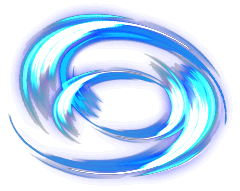
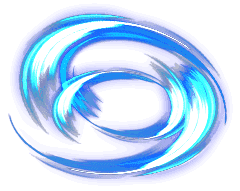
Compressed all the assets, adjust gaming status

diff --git a/src/PhaserGame/scenes/PlayScene.js b/src/PhaserGame/scenes/PlayScene.js
@@ -166,10 +166,10 @@ export class PlayScene extends Phaser.Scene{
       //  this.player = new Bomber(this,playerStartingPos.x,playerStartingPos.y, "p1", "p1_01.png",0,500,150);
         switch(this.spritekey){
             case "bomber":
-            this.player = new Bomber(this,playerStartingPos.x,playerStartingPos.y, "p1", "p1_01.png",0,this.startingPlayerHealth,150,'123');
+            this.player = new Bomber(this,playerStartingPos.x,playerStartingPos.y, "p1", "p1_0.png",0,this.startingPlayerHealth,150,'123');
             break;
             case "rider":
-            this.player = new Rider(this,playerStartingPos.x,playerStartingPos.y, "rider", "rider_01.png",1,this.startingPlayerHealth,200,'123').setScale(0.8);
+            this.player = new Rider(this,playerStartingPos.x,playerStartingPos.y, "rider", "rider_0.png",1,this.startingPlayerHealth,200,'123').setScale(0.8);
             break;
         }
         this.enemyPlayers.add(this.player);
@@ -229,38 +229,39 @@ export class PlayScene extends Phaser.Scene{
             this.hud = new HUD(this, this.player, this.playerUid, this.mode)
             this.manabar=this.hud.manabar;
             this.hpbar=this.hud.hpbar;
-            this.sword_in_the_stone=new Units(this,645,645,645,595,"sword_in_the_stone",1,2000,1,200,100,this.player.uid);
+            this.sword_in_the_stone=new Units(this,645,645,645,595,"sword_in_the_stone",1,2000,1,200,100,this.player.uid,this.player.uid,"sword_in_the_stone.svg");
             this.sword_in_the_stone.setScale(0.5);
 
-            this.building=new Units(this,1200,1200,1150,1099,"building1",1,200,4,180,200).setScale(0.15);
-            this.university=new Units(this,1200,0,1150,-1,"university",1,200).setScale(1.5);
-            this.pyramid=new Units(this,0,0,100,-1,"pyramid",1,200,4,180,200).setScale(1.5);
-            this.magicstone=new Units(this,0,1200,100,1089,"magicstone",1,200,4,180,200).setScale(1.5);
+            this.building=new Units(this,1200,1200,1150,1099,"building1",1,200,4,180,200,'123','123','sprite0').setScale(0.15);
+            this.university=new Units(this,1200,0,1150,-1,"university",1,200,4,180,200,'234','234',"university.png").setScale(1.5);
+            this.pyramid=new Units(this,0,0,100,-1,"pyramid",1,200,4,180,200,'345','345','pyramid.png').setScale(1.5);
+            this.magicstone=new Units(this,0,1200,100,1089,"magicstone",1,200,4,180,200,'456','456','magicstones.png').setScale(1.5);
+
 
             //The enemies are in four different towers.
-            this.wolf0=new Enemy(this, 1100,1200, "wolf", "Wolf_01.png",this.player,0,200,0.1,5,50,65,200);
-            this.wolf1=new Enemy(this, 1050,1200, "wolf", "Wolf_01.png",this.player,0,200,0.1,5,50,65,200);
-            this.wolf2=new Enemy(this, 1000,1200, "wolf", "Wolf_01.png",this.player,0,200,0.1,5,50,65,200);
-            this.wolf3=new Enemy(this, 950,1200, "wolf", "Wolf_01.png",this.player,0,200,0.1,5,50,65,200);
+            this.wolf0=new Enemy(this, 1100,1200, "wolf", "wolf_01.png",this.player,0,200,0.1,5,50,65,200);
+            this.wolf1=new Enemy(this, 1050,1200, "wolf", "wolf_01.png",this.player,0,200,0.1,5,50,65,200);
+            this.wolf2=new Enemy(this, 1000,1200, "wolf", "wolf_01.png",this.player,0,200,0.1,5,50,65,200);
+            this.wolf3=new Enemy(this, 950,1200, "wolf", "wolf_01.png",this.player,0,200,0.1,5,50,65,200);
             //this.wolf4=new Enemy(this, 900,1200, "wolf", "Wolf_01.png",this.player,0,200,0.1,5,50,65,200);
 
             
-            this.ninjabot0=new Enemy(this, 1000,200, "ninjabot", "ninjabot_1.png",this.player,1,100,0.8,5,180,55,700);
-            this.ninjabot1=new Enemy(this, 950,200, "ninjabot", "ninjabot_1.png",this.player,1,100,0.8,5,180,55,700);
-            this.ninjabot2=new Enemy(this, 900,200, "ninjabot", "ninjabot_1.png",this.player,1,100,0.8,5,180,55,700);
-            this.ninjabot3=new Enemy(this, 850,200, "ninjabot", "ninjabot_1.png",this.player,1,100,0.8,5,180,55,700);
+            this.ninjabot0=new Enemy(this, 1000,200, "ninjabot", "ninjabot_01.png",this.player,1,100,0.8,5,180,55,700);
+            this.ninjabot1=new Enemy(this, 950,200, "ninjabot", "ninjabot_01.png",this.player,1,100,0.8,5,180,55,700);
+            this.ninjabot2=new Enemy(this, 900,200, "ninjabot", "ninjabot_01.png",this.player,1,100,0.8,5,180,55,700);
+            this.ninjabot3=new Enemy(this, 850,200, "ninjabot", "ninjabot_01.png",this.player,1,100,0.8,5,180,55,700);
             //this.ninjabot4=new Enemy(this, 800,200, "ninjabot", "ninjabot_1.png",this.player,1,100,0.8,5,180,55,700);
 
-            this.skull0=new Enemy(this,50,300,"skull","skull_01",this.player,3,200,0.8,5,180,45,650).setScale(0.9);
-            this.skull1=new Enemy(this,100,300,"skull","skull_01",this.player,3,200,0.8,5,180,45,650).setScale(0.9);
-            this.skull2=new Enemy(this,150,300,"skull","skull_01",this.player,3,200,0.8,5,180,45,650).setScale(0.9);
-            this.skull3=new Enemy(this,200,300,"skull","skull_01",this.player,3,200,0.8,5,180,45,650).setScale(0.9);
+            this.skull0=new Enemy(this,50,300,"skull","skull_01.png",this.player,3,200,0.8,5,180,45,650).setScale(0.9);
+            this.skull1=new Enemy(this,100,300,"skull","skull_01.png",this.player,3,200,0.8,5,180,45,650).setScale(0.9);
+            this.skull2=new Enemy(this,150,300,"skull","skull_01.png",this.player,3,200,0.8,5,180,45,650).setScale(0.9);
+            this.skull3=new Enemy(this,200,300,"skull","skull_01.png",this.player,3,200,0.8,5,180,45,650).setScale(0.9);
             //this.skull4=new Enemy(this,250,300,"skull","skull_01",this.player,3,200,0.8,5,180,45,650).setScale(0.9);
 
-            this.demon0=new Enemy(this,50,1200,"demon1","demon1_01",this.player,2,200,0.7,2,200,50,500).setScale(1.5);
-            this.demon1=new Enemy(this,100,1200,"demon1","demon1_01",this.player,2,200,0.7,2,200,50,500).setScale(1.5);
-            this.demon2=new Enemy(this,150,1200,"demon1","demon1_01",this.player,2,200,0.7,2,200,50,500).setScale(1.5);
-            this.demon3=new Enemy(this,200,1200,"demon1","demon1_01",this.player,2,200,0.7,2,200,50,500).setScale(1.5);
+            this.demon0=new Enemy(this,50,1200,"demon1","demon1_01.png",this.player,2,200,0.7,2,200,50,500).setScale(1.5);
+            this.demon1=new Enemy(this,100,1200,"demon1","demon1_01.png",this.player,2,200,0.7,2,200,50,500).setScale(1.5);
+            this.demon2=new Enemy(this,150,1200,"demon1","demon1_01.png",this.player,2,200,0.7,2,200,50,500).setScale(1.5);
+            this.demon3=new Enemy(this,200,1200,"demon1","demon1_01.png",this.player,2,200,0.7,2,200,50,500).setScale(1.5);
             //this.demon4=new Enemy(this,250,1200,"demon1","demon1_01",this.player,2,200,0.7,2,200,50,500).setScale(1.5);
 
             this.enemies.add(this.demon0);
@@ -296,10 +297,10 @@ export class PlayScene extends Phaser.Scene{
             */    
             this.createEnemies = (time) =>{
                 if(this.timecycle < time){
-                    this.wolf=new Enemy(this, 1160,1150, "wolf", "Wolf_01.png",this.player,0,200,0.1,5,50,99,200);
-                    this.ninjabot=new Enemy(this, 1220,120, "ninjabot", "ninjabot_1.png",this.player,1,100,0.8,5,180,60,700);
-                    this.skull=new Enemy(this,130,115,"skull","skull_01",this.player,3,200,0.8,5,180,60,650).setScale(0.9);
-                    this.demon=new Enemy(this,85,1150,"demon1","demon1_01",this.player,2,200,0.7,2,200,70,500).setScale(1.5);
+                    this.wolf=new Enemy(this, 1160,1150, "wolf", "wolf_01.png",this.player,0,200,0.1,5,50,99,200);
+                    this.ninjabot=new Enemy(this, 1220,120, "ninjabot", "ninjabot_01.png",this.player,1,100,0.8,5,180,60,700);
+                    this.skull=new Enemy(this,130,115,"skull","skull_01.png",this.player,3,200,0.8,5,180,60,650).setScale(0.9);
+                    this.demon=new Enemy(this,85,1150,"demon1","demon1_01.png",this.player,2,200,0.7,2,200,70,500).setScale(1.5);
                     this.enemies.add(this.wolf);
                     this.enemies.add(this.ninjabot);
                     this.enemies.add(this.skull);
@@ -311,11 +312,11 @@ export class PlayScene extends Phaser.Scene{
             
         }
         if(this.mode === 'multi'){
-            this.pyramid=new Units(this,0,0,100,-1,"pyramid",1,2000,1,200,100).setScale(1.5);
-            this.university=new Units(this,1200,0,1150,-1,"university",1,2000,1,200,100).setScale(1.5);
-            this.building=new Units(this,1200,1200,1150,1099,"building1",1,2000,1,200,100).setScale(0.15);
-            this.magicstone=new Units(this,0,1200,100,1089,"magicstone",1,2000,1,200,100).setScale(1.5);
-            this.sword_in_the_stone=new Units(this,645,645,645,595,"sword_in_the_stone",1,500,1,190,100).setScale(0.5);
+            this.pyramid=new Units(this,0,0,100,-1,"pyramid",1,500,1,200,100,'123','123','pyramid.png').setScale(1.5);
+            this.university=new Units(this,1200,0,1150,-1,"university",1,500,1,200,100,'234','234',"university.png").setScale(1.5);
+            this.building=new Units(this,1200,1200,1150,1099,"building1",1,500,1,200,100,'345','345','sprite0').setScale(0.15);
+            this.magicstone=new Units(this,0,1200,100,1089,"magicstone",1,500,1,200,100,'456','456','magicstones.png').setScale(1.5);
+            this.sword_in_the_stone=new Units(this,645,645,645,595,"sword_in_the_stone",1,300,1,190,100,'567','567',"sword_in_the_stone.svg").setScale(0.5);
 
             this.physics.add.collider(this.enemies, this.waterLayer);
            
@@ -445,10 +446,10 @@ export class PlayScene extends Phaser.Scene{
                 for (let i = 0; i < this.enemylist.length; i++) {
                     if (this.enemylist[i].uid!=this.player.uid){
                         if (Math.abs(this.enemylist[i].x - this.player.x) < 150 && Math.abs(this.enemylist[i].y - this.player.y) < 100){ 
-                            this.wall1=new Enemy(this,this.enemylist[i].x+25,this.enemylist[i].y+25,"wall","wall_01",this.player,null,100,0,0,0,0,0,this.player.uid).setScale(0.2);
-                            this.wall2=new Enemy(this,this.enemylist[i].x-25,this.enemylist[i].y-25,"wall","wall_01",this.player,null,100,0,0,0,0,0,this.player.uid).setScale(0.2);
-                            this.wall3=new Enemy(this,this.enemylist[i].x+25,this.enemylist[i].y-25,"wall","wall_01",this.player,null,100,0,0,0,0,0,this.player.uid).setScale(0.2);
-                            this.wall4=new Enemy(this,this.enemylist[i].x-25,this.enemylist[i].y+25,"wall","wall_01",this.player,null,100,0,0,0,0,0,this.player.uid).setScale(0.2);
+                            this.wall1=new Enemy(this,this.enemylist[i].x+25,this.enemylist[i].y+25,"wall","wall.png",this.player,null,100,0,0,0,0,0,this.player.uid).setScale(0.2);
+                            this.wall2=new Enemy(this,this.enemylist[i].x-25,this.enemylist[i].y-25,"wall","wall.png",this.player,null,100,0,0,0,0,0,this.player.uid).setScale(0.2);
+                            this.wall3=new Enemy(this,this.enemylist[i].x+25,this.enemylist[i].y-25,"wall","wall.png",this.player,null,100,0,0,0,0,0,this.player.uid).setScale(0.2);
+                            this.wall4=new Enemy(this,this.enemylist[i].x-25,this.enemylist[i].y+25,"wall","wall.png",this.player,null,100,0,0,0,0,0,this.player.uid).setScale(0.2);
                         
                             this.stoplist.push(this.enemylist[i]);
                             this.wallList.push(this.wall1);

diff --git a/src/PhaserGame/scenes/PlaySceneMultiplayer.js b/src/PhaserGame/scenes/PlaySceneMultiplayer.js
@@ -114,7 +114,7 @@ export class PlaySceneMultiplayer extends PlayScene{ //The difference here is th
      */
         this.score = 0;
 
-        this.startingPlayerHealth = 400;
+        this.startingPlayerHealth = 250;
     }
 
     init(data){
@@ -185,10 +185,10 @@ export class PlaySceneMultiplayer extends PlayScene{ //The difference here is th
         })
         
         if(this.temp == "bomber"){
-        this.otherPlayers[id] = new Player(this,position.x,position.y, "p1", "p1_01.png",0,this.startingPlayerHealth,64,id);
+        this.otherPlayers[id] = new Player(this,position.x,position.y, "p1", "p1_0.png",0,this.startingPlayerHealth,64,id);
         }
         else if (this.temp == "rider"){
-        this.otherPlayers[id] = new Rider(this,position.x,position.y, "rider", "rider_01.png",1,this.startingPlayerHealth,200,id).setScale(0.6);
+        this.otherPlayers[id] = new Rider(this,position.x,position.y, "rider", "rider_0.png",1,this.startingPlayerHealth,200,id).setScale(0.6);
         }
         this.otherPlayers[id].user = false;
         this.otherPlayers[id].setVelocity(velocity.x,velocity.y);
@@ -222,11 +222,11 @@ export class PlaySceneMultiplayer extends PlayScene{ //The difference here is th
         this.physics.add.collider(this.otherPlayers[id], this.enemies);
         this.physics.add.collider(this.enemies, this.waterLayer);
         this.physics.add.collider(this.enemies, this.CollisionLayer);
-        this.player1.setCollideWorldBounds(true);
+        this.otherPlayers[id].setCollideWorldBounds(true);
         
 
         
-        this.player1.setCollideWorldBounds(true);
+        //this.player1.setCollideWorldBounds(true);
         let movementDataDB = `Games/${this.gameRoom}/Players/${id}/movementData`;
         firebase.database().ref(movementDataDB).on("child_changed", (snapShot) => {
             let dataChanged = snapShot.val();
@@ -288,7 +288,7 @@ export class PlaySceneMultiplayer extends PlayScene{ //The difference here is th
 
     createBotAt = (towerNumber)=>{
         let playerPos = this.startingPosFromTowerNum(towerNumber);
-        let bot =  new Player(this,playerPos.x,playerPos.y, "p1", "p1_01.png",0,500,64,"bot" + towerNumber);
+        let bot =  new Player(this,playerPos.x,playerPos.y, "p1", "p1_0.png",0,500,64,"bot" + towerNumber);
         bot.becomeBot();
         this.updateSprite(bot);
     }
@@ -296,21 +296,21 @@ export class PlaySceneMultiplayer extends PlayScene{ //The difference here is th
     addNewEnemy = (x, y, type, playerid, enemyid) => {
 
         if(type==='wolf'){              
-            this.newenemy =new Enemy(this, x, y, "wolf", "Wolf_01.png",this.player1,0,220,0.1,5,50,99,200,playerid);
+            this.newenemy =new Enemy(this, x, y, "wolf", "wolf_01.png",this.player1,0,220,0.1,5,50,99,200,playerid);
         }
 
         else if(type==='ninjabot'){              
-            this.newenemy=new Enemy(this, x, y, "ninjabot", "ninjabot_1.png",this.player1,1,180,0.8,5,180,60,700,playerid)
+            this.newenemy=new Enemy(this, x, y, "ninjabot", "ninjabot_01.png",this.player1,1,180,0.8,5,180,60,700,playerid)
         }
         
         else if(type==='skull'){              
-            this.newenemy=new Enemy(this, x, y, "skull","skull_01",this.player1,3,200,0.8,5,180,60,650,playerid).setScale(0.9);
+            this.newenemy=new Enemy(this, x, y, "skull","skull_01.png",this.player1,3,200,0.8,5,180,60,650,playerid).setScale(0.9);
         }
         else if(type==='demon1'){              
-            this.newenemy=new Enemy(this, x, y, "demon1","demon1_01",this.player1,2,300,0.7,2,200,70,600, playerid).setScale(1.5);
+            this.newenemy=new Enemy(this, x, y, "demon1","demon1_01.png",this.player1,2,300,0.7,2,200,70,600, playerid).setScale(1.5);
         }
         else if(type==='wall'){              
-            this.newenemy=new Enemy(this, x, y, "wall","wall_01",this.player1,null,100,0,0,0,0,0,playerid).setScale(0.5);
+            this.newenemy=new Enemy(this, x, y, "wall","wall.png",this.player1,null,100,0,0,0,0,0,playerid).setScale(0.5);
             this.newenemy.body.immovable=true;
             this.newenemy.body.moves=false;
         }
@@ -344,11 +344,11 @@ export class PlaySceneMultiplayer extends PlayScene{ //The difference here is th
 
         this.player.setPosition(startingPlayerPosition.x,startingPlayerPosition.y);
         if(this.spritekey == "bomber"){
-        this.player1 = new Player(this,startingPlayerPosition.x,startingPlayerPosition.y, "p1", "p1_01.png",0
+        this.player1 = new Player(this,startingPlayerPosition.x,startingPlayerPosition.y, "p1", "p1_0.png",0
                                     ,this.startingPlayerHealth,64,this.playerID);
         }
         else if(this.spritekey == "rider"){
-        this.player1 = new Rider(this,startingPlayerPosition.x,startingPlayerPosition.y, "rider", "rider_01.png",1
+        this.player1 = new Rider(this,startingPlayerPosition.x,startingPlayerPosition.y, "rider", "rider_0.png",1
                                     ,this.startingPlayerHealth,200,this.playerID).setScale(0.6);
         }
         this.player1.setSize(29, 29);
@@ -356,6 +356,7 @@ export class PlaySceneMultiplayer extends PlayScene{ //The difference here is th
         //this.player.setVisible(true);
         this.player1.setVisible(true);
         this.player.setVisible(false);
+        this.player1.setCollideWorldBounds(true);
 
 
 

diff --git a/src/PhaserGame/gameObjects/HUD.js b/src/PhaserGame/gameObjects/HUD.js
@@ -112,7 +112,7 @@ export class HUD {
             if(player.mana>=100 && player.active){
             //   scene.add.sprite(pointer.worldX, pointer.worldY, unit.texture.key);
                 if(unit.texture.key==='wolf'){              
-                    scene.newenemy =new Enemy(scene, pointer.worldX, pointer.worldY, "wolf", "Wolf_01.png",player,0,200,0.1,5,50,99,200,player.uid);
+                    scene.newenemy =new Enemy(scene, pointer.worldX, pointer.worldY, "wolf", "wolf_01.png",player,0,200,0.1,5,50,99,200,player.uid);
                     scene.player.mana-=50;
                     this.manabar.cutManaBar(50);
                     if(gamemode === 'multi'){
@@ -123,7 +123,7 @@ export class HUD {
                }
        
                if(unit.texture.key==='ninjabot'){              
-                    scene.newenemy=new Enemy(scene, pointer.worldX, pointer.worldY, "ninjabot", "ninjabot_1.png",player,1,100,0.8,5,180,60,700,player.uid)
+                    scene.newenemy=new Enemy(scene, pointer.worldX, pointer.worldY, "ninjabot", "ninjabot_01.png",player,1,100,0.8,5,180,60,700,player.uid)
                     scene.player.mana-=25;
                     this.manabar.cutManaBar(25)
                     if(gamemode === 'multi'){
@@ -134,7 +134,7 @@ export class HUD {
                }
                
                if(unit.texture.key==='skull'){              
-                    scene.newenemy=new Enemy(scene,pointer.worldX,pointer.worldY,"skull","skull_01",player,3,200,0.8,5,180,60,650,player.uid).setScale(0.9);
+                    scene.newenemy=new Enemy(scene,pointer.worldX,pointer.worldY,"skull","skull_01.png",player,3,200,0.8,5,180,60,650,player.uid).setScale(0.9);
                     scene.player.mana-=25;
                     this.manabar.cutManaBar(25);
                     if(gamemode === 'multi'){
@@ -144,7 +144,7 @@ export class HUD {
                     }
                }
                if(unit.texture.key==='demon1'){              
-                    scene.newenemy=new Enemy(scene,pointer.worldX,pointer.worldY,"demon1","demon1_01",player,2,200,0.7,2,200,70,500, player.uid).setScale(1.5);
+                    scene.newenemy=new Enemy(scene,pointer.worldX,pointer.worldY,"demon1","demon1_01.png",player,2,200,0.7,2,200,70,500, player.uid).setScale(1.5);
                     scene.player.mana-=50
                     this.manabar.cutManaBar(50);
                     if(gamemode === 'multi'){
@@ -154,7 +154,7 @@ export class HUD {
                     }
                }
                if(unit.texture.key==='wall'){              
-                    scene.newenemy=new Enemy(scene,pointer.worldX,pointer.worldY,"wall","wall_01",player,null,100,0,0,0,0,0,player.uid).setScale(0.5);
+                    scene.newenemy=new Enemy(scene,pointer.worldX,pointer.worldY,"wall","wall.png",player,null,100,0,0,0,0,0,player.uid).setScale(0.5);
                     scene.newenemy.body.immovable=true;
                     scene.newenemy.body.moves=false;
                     scene.player.mana-=20;

diff --git a/src/PhaserGame/gameObjects/Units.js b/src/PhaserGame/gameObjects/Units.js
@@ -27,8 +27,8 @@ export class Units extends Phaser.Physics.Arcade.Sprite  {
      * @param {string} uid - The unique id of the unit object.
      */
     
-    constructor(scene,x,y,barx,bary,name,type=0,healthPoints=500,speed=1,range=180,cooldown=100,uid='233',selfID='233'){
-        super(scene,x,y,name,type);
+    constructor(scene,x,y,barx,bary,name,type=0,healthPoints=500,speed=1,range=180,cooldown=100,uid='233',selfID='233',frame){
+        super(scene,x,y,name,frame);
         if (this.type=1){
             this.tower=true;
         }

diff --git a/src/PhaserGame/gameObjects/Player.js b/src/PhaserGame/gameObjects/Player.js
@@ -22,7 +22,7 @@ export class Player extends Phaser.Physics.Arcade.Sprite{
      * @param {string} uid - unique id of each player object
      */
     constructor(scene,x,y,key,textureName,characterId,healthPoints = 100,movementSpeed=64,uid='233'){
-        super(scene,x,y,key,textureName,movementSpeed);
+        super(scene,x,y,key,textureName);
         //adds to the scenes update and display list
         scene.sys.updateList.add(this);
         scene.sys.displayList.add(this);
